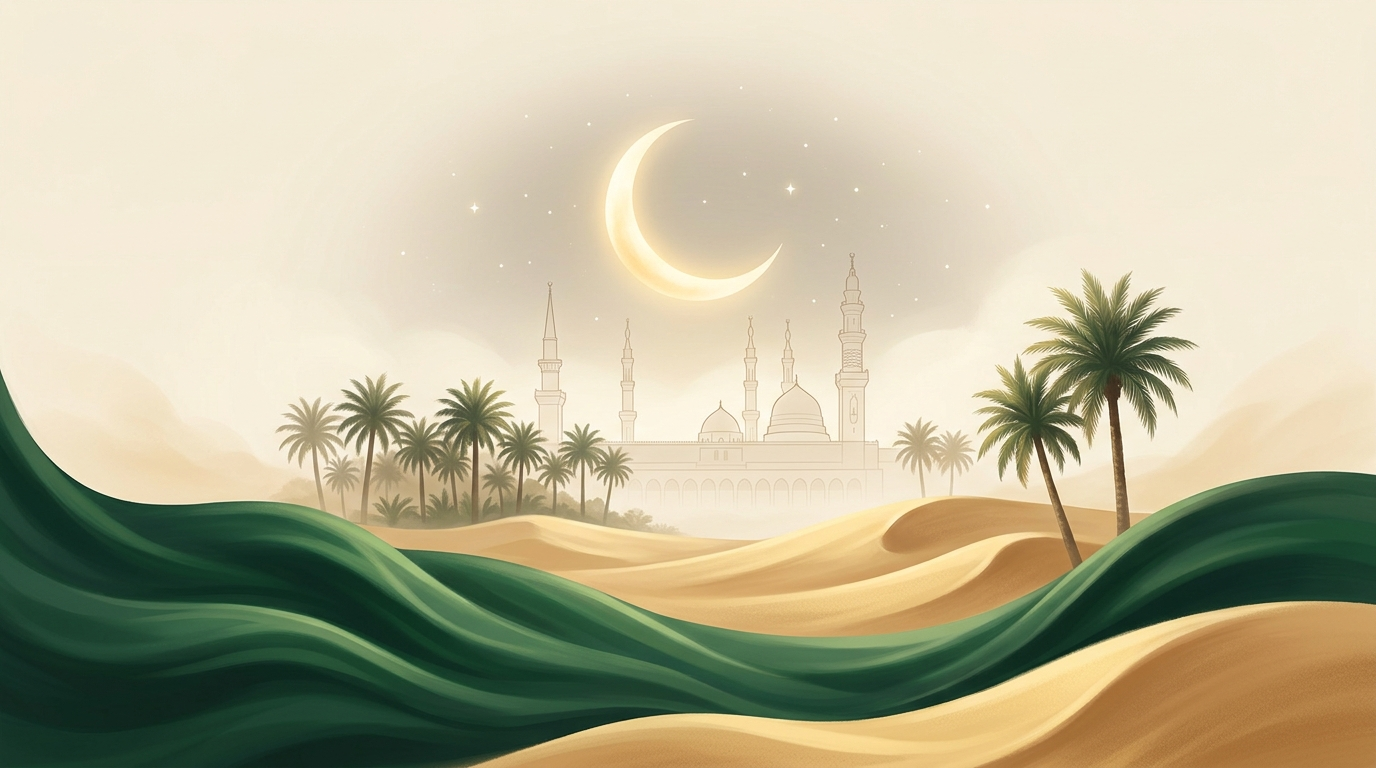
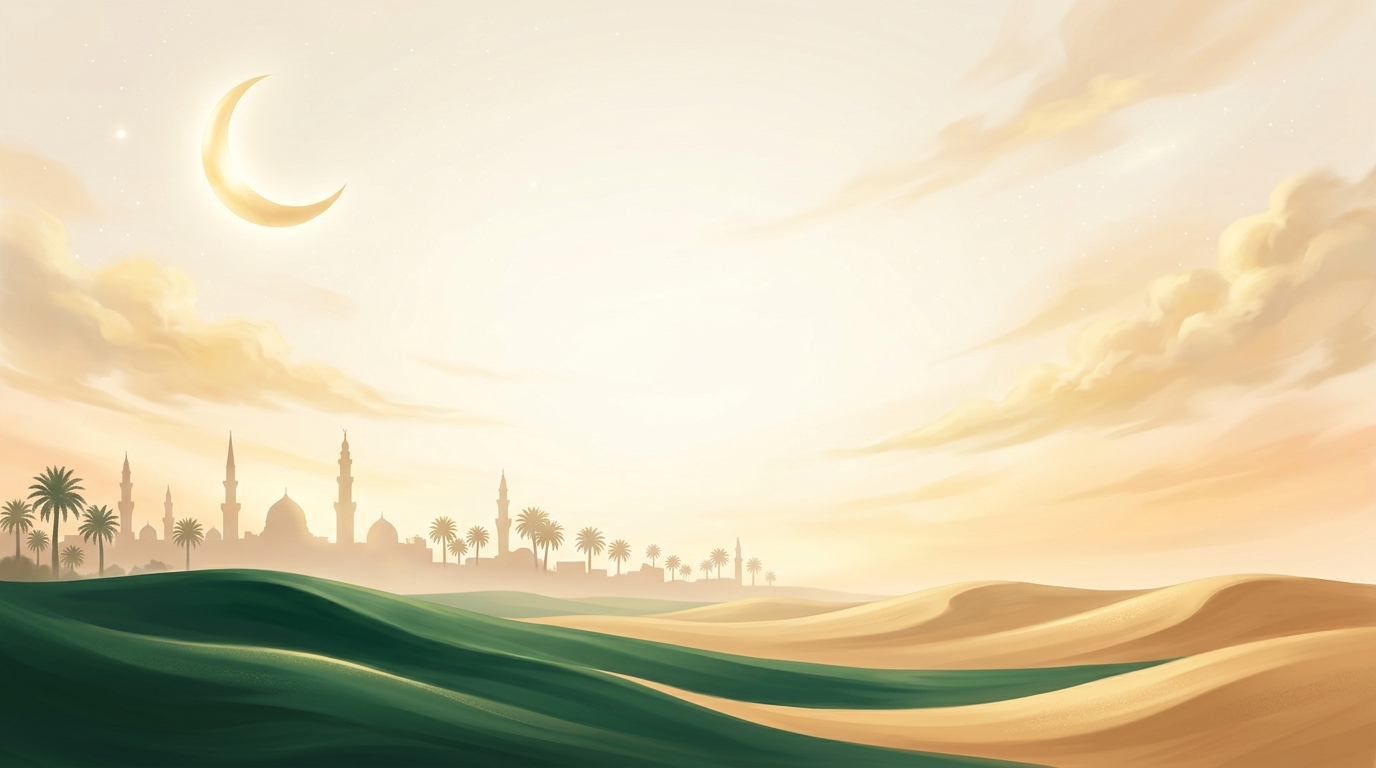
feat(ui): production-ready UI polish with high-contrast hero artwork, Playfair Display typography, and canonical language ordering

diff --git a/src/components/WelcomeScreen.jsx b/src/components/WelcomeScreen.jsx
@@ -102,46 +102,47 @@ export default function WelcomeScreen({
           />
 
           {/* Overlay Typography */}
-          <div className="absolute inset-0 flex flex-col items-center justify-center text-center px-4 py-2 bg-gradient-to-b from-white/10 via-transparent to-black/10">
+          <div className="absolute inset-0 flex flex-col items-center justify-center text-center px-4 py-2">
             <h1 
-              className="text-lg sm:text-2xl font-extrabold tracking-tight"
+              className="text-xl sm:text-3xl font-extrabold tracking-tight"
               style={{ 
                 fontFamily: "'Playfair Display', Georgia, serif", 
                 color: '#064e3b',
-                textShadow: '0 1px 3px rgba(255,255,255,0.9)'
+                textShadow: '0 1px 4px rgba(255,255,255,0.95), 0 2px 8px rgba(255,255,255,0.7)'
               }}
             >
               aakhri Nabi Ki
             </h1>
             <h2 
-              className="text-lg sm:text-2xl font-serif font-bold -mt-1"
+              className="text-xl sm:text-3xl font-serif font-bold -mt-0.5"
               style={{ 
+                fontFamily: "'Playfair Display', Georgia, serif",
                 color: '#b45309',
-                textShadow: '0 1px 3px rgba(255,255,255,0.9)'
+                textShadow: '0 1px 4px rgba(255,255,255,0.95), 0 2px 8px rgba(255,255,255,0.7)'
               }}
             >
               pyari seerat
             </h2>
 
             {/* Ornamental Star */}
-            <div className="text-[9px] text-[#065f46] my-1">
+            <div className="text-[10px] text-[#065f46] my-1">
               ✦
             </div>
 
-            <div className="text-[9px] sm:text-[10px] font-bold tracking-widest text-[#065f46] uppercase">
+            <div className="text-[10px] sm:text-[11px] font-bold tracking-widest text-[#065f46] uppercase">
               ILM • ISHQ • AMAL
             </div>
 
-            <p className="text-[10px] sm:text-[11px] italic font-serif text-gray-700 dark:text-gray-800 mt-1">
+            <p className="text-[11px] sm:text-xs italic font-serif text-gray-800 mt-1 font-medium" style={{ textShadow: '0 1px 2px rgba(255,255,255,0.9)' }}>
               “A life of mercy for all humanity”
             </p>
 
-            <div className="mt-1.5 flex items-center gap-2 opacity-85">
-              <span className="h-px w-5 bg-emerald-800/30" />
-              <span className="text-[8px] sm:text-[9px] font-mono tracking-widest text-[#064e3b] font-bold uppercase">
+            <div className="mt-2 flex items-center gap-2">
+              <span className="h-px w-6 bg-emerald-900/30" />
+              <span className="text-[9px] sm:text-[10px] font-mono tracking-widest text-[#064e3b] font-bold uppercase" style={{ textShadow: '0 1px 2px rgba(255,255,255,0.9)' }}>
                 DEVELOPED BY MOHAMMAD ASIM
               </span>
-              <span className="h-px w-5 bg-emerald-800/30" />
+              <span className="h-px w-6 bg-emerald-900/30" />
             </div>
           </div>
         </div>

diff --git a/index.html b/index.html
@@ -18,7 +18,7 @@
     <!-- Google Fonts -->
     <link rel="preconnect" href="https://fonts.googleapis.com">
     <link rel="preconnect" href="https://fonts.gstatic.com" crossorigin>
-    <link href="https://fonts.googleapis.com/css2?family=Amiri:ital,wght@0,400;0,700;1,400&family=Noto+Nastaliq+Urdu:wght@400;600;700&family=Noto+Sans+Devanagari:wght@400;500;600;700;800&family=Outfit:wght@400;500;600;700&family=Rozha+One&display=swap" rel="stylesheet">
+    <link href="https://fonts.googleapis.com/css2?family=Amiri:ital,wght@0,400;0,700;1,400&family=Noto+Nastaliq+Urdu:wght@400;600;700&family=Noto+Sans+Devanagari:wght@400;500;600;700;800&family=Outfit:wght@400;500;600;700&family=Playfair+Display:ital,wght@0,600;0,700;0,800;1,400&family=Rozha+One&display=swap" rel="stylesheet">
   </head>
   <body>
     <div id="root"></div>

diff --git a/src/components/Header.jsx b/src/components/Header.jsx
@@ -185,6 +185,7 @@ export default function Header({
 
           {/* Row 2: Segmented Language Switcher */}
           <div 
+            dir="ltr"
             className="flex items-center p-1 rounded-xl border text-xs font-semibold w-full shadow-xs"
             style={{ backgroundColor: 'var(--bg-surface-elevated)', borderColor: 'var(--border-color)' }}
           >
@@ -288,6 +289,7 @@ export default function Header({
           <div className="flex items-center gap-2.5 flex-shrink-0">
             {/* Trilingual & Dual Switcher */}
             <div 
+              dir="ltr"
               className="flex items-center p-1 rounded-xl border text-xs font-semibold shadow-xs"
               style={{ backgroundColor: 'var(--bg-surface-elevated)', borderColor: 'var(--border-color)' }}
             >
